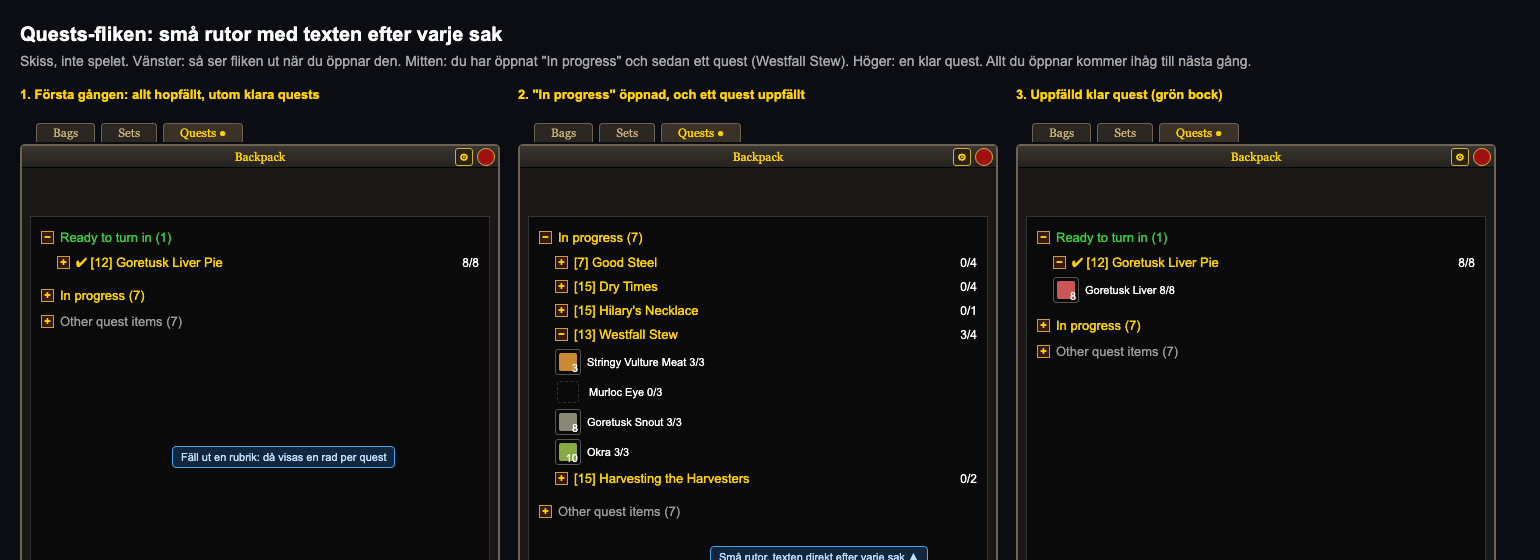
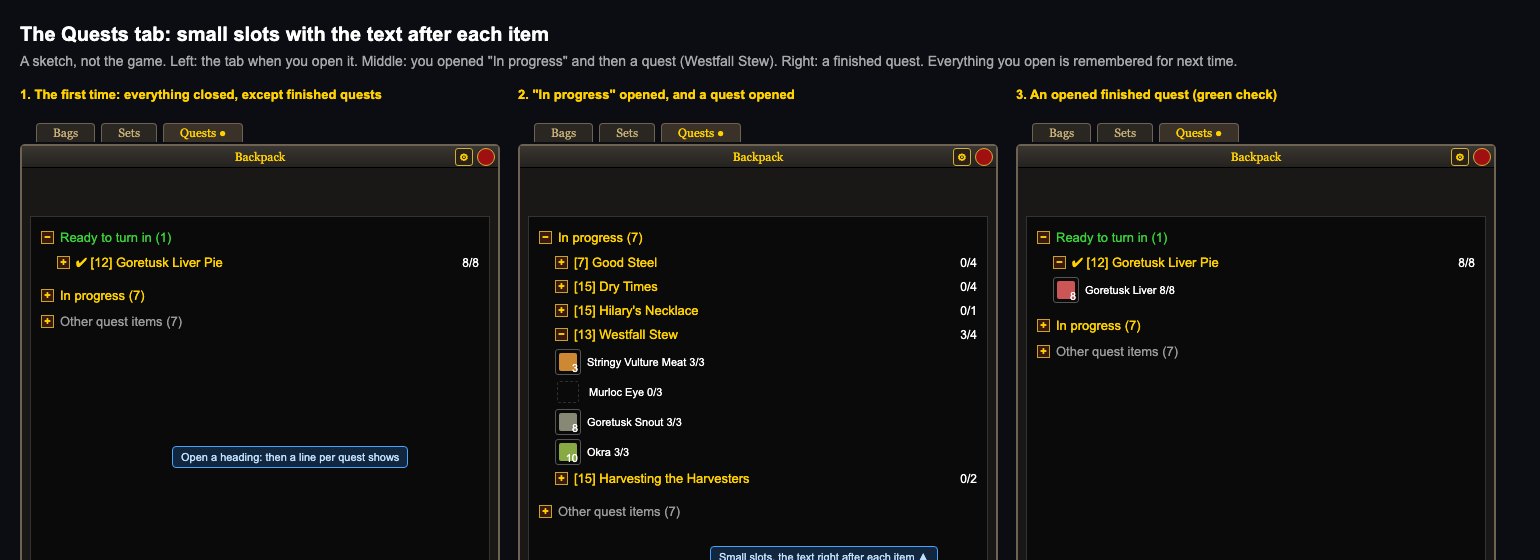
Translate .design/sketch-quests-list to English (#7)

diff --git a/.design/sketch-quests-list.html b/.design/sketch-quests-list.html
@@ -1,4 +1,4 @@
-<!DOCTYPE html><html><head><meta charset="utf-8"><title>Tidy Pack – skiss: Quests som lista</title>
+<!DOCTYPE html><html><head><meta charset="utf-8"><title>Tidy Pack – sketch: Quests as a list</title>
 <style>
 *{box-sizing:border-box}body{margin:0;padding:20px;background:#0b0d12;color:#d8d8d8;font:14px/1.4 Arial,sans-serif;width:1500px}
 h1{font-size:20px;margin:0 0 4px;color:#fff}.n{color:#a8a8a8;margin:0 0 14px;max-width:1350px}
@@ -18,20 +18,20 @@ h1{font-size:20px;margin:0 0 4px;color:#fff}.n{color:#a8a8a8;margin:0 0 14px;max
 .ft{position:absolute;bottom:4px;right:12px;font:11px Arial;color:#fff}
 .call{position:absolute;background:#12263d;border:1px solid #4aa3ff;color:#bfe0ff;font:11px/1.3 Arial;padding:3px 8px;border-radius:4px;z-index:5;white-space:nowrap}
 </style></head><body>
-<h1>Quests-fliken: små rutor med texten efter varje sak</h1>
-<p class="n">Skiss, inte spelet. Vänster: så ser fliken ut när du öppnar den. Mitten: du har öppnat "In progress" och sedan ett quest (Westfall Stew). Höger: en klar quest. Allt du öppnar kommer ihåg till nästa gång.</p>
+<h1>The Quests tab: small slots with the text after each item</h1>
+<p class="n">A sketch, not the game. Left: the tab when you open it. Middle: you opened "In progress" and then a quest (Westfall Stew). Right: a finished quest. Everything you open is remembered for next time.</p>
 <div class="row">
 
-<div class="col"><h2>1. Första gången: allt hopfällt, utom klara quests</h2><div class="bag"><div class="tabs"><div class="tab">Bags</div><div class="tab">Sets</div><div class="tab on">Quests ●</div></div><div class="t">Backpack</div><div class="g">⚙</div><div class="x"></div>
+<div class="col"><h2>1. The first time: everything closed, except finished quests</h2><div class="bag"><div class="tabs"><div class="tab">Bags</div><div class="tab">Sets</div><div class="tab on">Quests ●</div></div><div class="t">Backpack</div><div class="g">⚙</div><div class="x"></div>
 <div class="in">
 <div class="sec g1"><span class="pm">−</span>Ready to turn in (1)</div>
 <div class="q"><span class="pm">+</span>✔ [12] Goretusk Liver Pie<span class="r">8/8</span></div>
 <div class="sec y" style="margin-top:8px"><span class="pm">+</span>In progress (7)</div>
 <div class="sec gr"><span class="pm">+</span>Other quest items (7)</div>
 </div><div class="ft">28 ● 35 ●</div>
-<div class="call" style="left:150px;top:300px">Fäll ut en rubrik: då visas en rad per quest</div></div></div>
+<div class="call" style="left:150px;top:300px">Open a heading: then a line per quest shows</div></div></div>
 
-<div class="col"><h2>2. "In progress" öppnad, och ett quest uppfällt</h2><div class="bag"><div class="tabs"><div class="tab">Bags</div><div class="tab">Sets</div><div class="tab on">Quests ●</div></div><div class="t">Backpack</div><div class="g">⚙</div><div class="x"></div>
+<div class="col"><h2>2. "In progress" opened, and a quest opened</h2><div class="bag"><div class="tabs"><div class="tab">Bags</div><div class="tab">Sets</div><div class="tab on">Quests ●</div></div><div class="t">Backpack</div><div class="g">⚙</div><div class="x"></div>
 <div class="in">
 <div class="sec y"><span class="pm">−</span>In progress (7)</div>
 <div class="q"><span class="pm">+</span>[7] Good Steel<span class="r">0/4</span></div>
@@ -45,9 +45,9 @@ h1{font-size:20px;margin:0 0 4px;color:#fff}.n{color:#a8a8a8;margin:0 0 14px;max
 <div class="q"><span class="pm">+</span>[15] Harvesting the Harvesters<span class="r">0/2</span></div>
 <div class="sec gr" style="margin-top:8px"><span class="pm">+</span>Other quest items (7)</div>
 </div><div class="ft">28 ● 35 ●</div>
-<div class="call" style="left:190px;top:400px">Små rutor, texten direkt efter varje sak ▲</div></div></div>
+<div class="call" style="left:190px;top:400px">Small slots, the text right after each item ▲</div></div></div>
 
-<div class="col"><h2>3. Uppfälld klar quest (grön bock)</h2><div class="bag"><div class="tabs"><div class="tab">Bags</div><div class="tab">Sets</div><div class="tab on">Quests ●</div></div><div class="t">Backpack</div><div class="g">⚙</div><div class="x"></div>
+<div class="col"><h2>3. An opened finished quest (green check)</h2><div class="bag"><div class="tabs"><div class="tab">Bags</div><div class="tab">Sets</div><div class="tab on">Quests ●</div></div><div class="t">Backpack</div><div class="g">⚙</div><div class="x"></div>
 <div class="in">
 <div class="sec g1"><span class="pm">−</span>Ready to turn in (1)</div>
 <div class="q"><span class="pm">−</span>✔ [12] Goretusk Liver Pie<span class="r ok">8/8</span></div>
